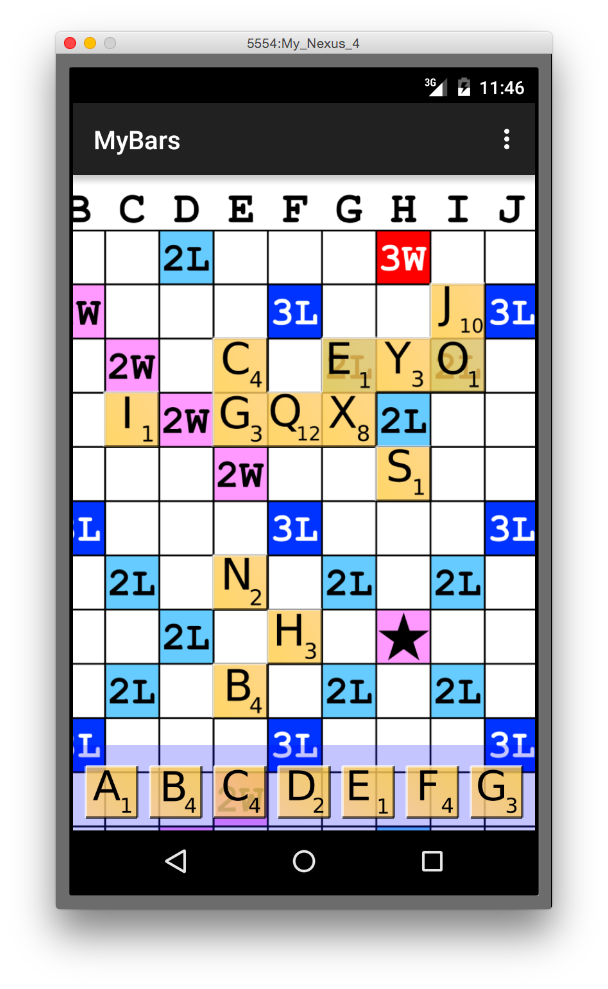
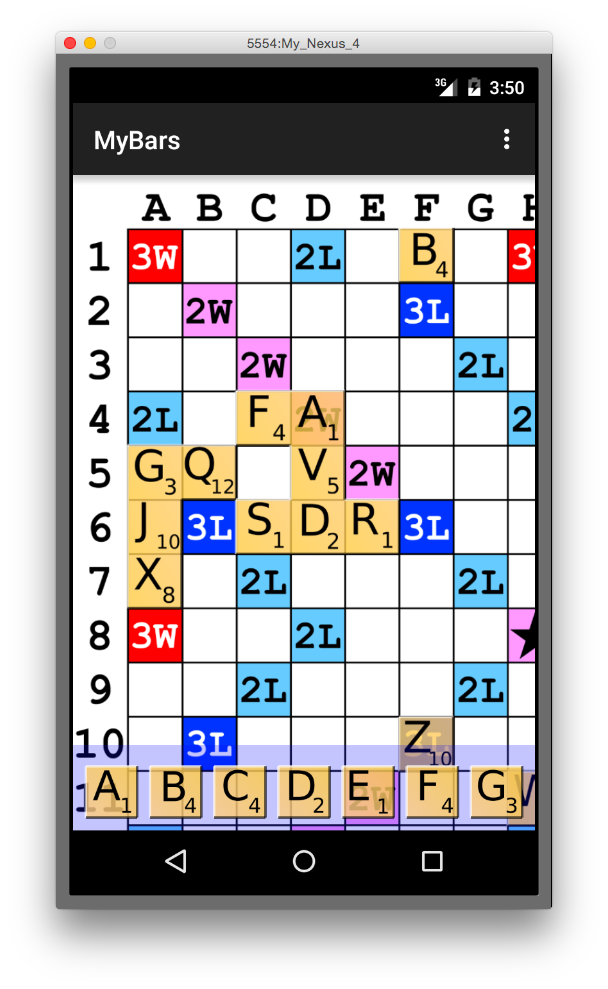
Get rid of corner, use drawLines for better performance

diff --git a/MyBars/src/de/afarber/mybars/SmallTile.java b/MyBars/src/de/afarber/mybars/SmallTile.java
@@ -6,14 +6,12 @@ import android.content.Context;
 import android.graphics.Canvas;
 import android.graphics.Color;
 import android.graphics.Paint;
-import android.graphics.Path;
 import android.graphics.drawable.Drawable;
 import android.util.Log;
 
 public class SmallTile {
 	private static final int ALPHA = 0x99;
 	private static final String PREFIX = "small_";
-	private static final int CORNER = 8;
 
 	private static final int NORTH = 0;
 	private static final int EAST = 1;
@@ -35,14 +33,14 @@ public class SmallTile {
 	public boolean visible = true;
 	
     private float mScale;
-    private int mCorner;
     
     private Paint mPaintLight;
     private Paint mPaintDark;
 
-    private Path mFillPath;
-    private Path mLightPath;
-    private Path mDarkPath;
+    private float[] mNorthLine;
+    private float[] mEastLine;
+    private float[] mSouthLine;
+    private float[] mWestLine;
 
 	private char mLetter;
 	private int mValue;
@@ -66,7 +64,6 @@ public class SmallTile {
 	    }
 	    
         mScale = context.getResources().getDisplayMetrics().density;
-		mCorner = Math.max(width, height) / CORNER;
       
 		mPaintLight = new Paint(Paint.ANTI_ALIAS_FLAG | Paint.FILTER_BITMAP_FLAG);
 		mPaintLight.setStyle(Paint.Style.STROKE);
@@ -80,25 +77,25 @@ public class SmallTile {
 		mPaintDark.setColor(Color.BLACK);
 		mPaintDark.setAlpha(ALPHA);
 		
-		final int corner = Math.max(width, height) / 6;
+		mNorthLine = new float[]{
+				0, 0, 
+				width, 0
+		};
 		
-		mFillPath = new Path();
-		mFillPath.lineTo(width - corner, 0);
-		mFillPath.lineTo(width, corner);
-		mFillPath.lineTo(width, height);
-		mFillPath.lineTo(0, height);
-		mFillPath.close();
+		mEastLine = new float[]{
+				width, 0,
+				width, height
+		};
 		
-		mLightPath = new Path();
-		mLightPath.moveTo(0, height);
-		mLightPath.lineTo(0, 0);
-		mLightPath.lineTo(width - corner, 0);
-		mLightPath.lineTo(width, corner);
+		mSouthLine = new float[]{
+				0, height, 
+				width, height 
+		};
 		
-		mDarkPath = new Path();
-		mDarkPath.moveTo(0, height);
-		mDarkPath.lineTo(width, height);
-		mDarkPath.lineTo(width, corner);
+		mWestLine = new float[]{
+				0, 0, 
+				0, height 
+		};
 	}
 
     public void setDrawSides(boolean[] sides) {
@@ -111,28 +108,20 @@ public class SmallTile {
 		
 		canvas.save();
 		canvas.translate(left, top);
-        
-		if (mDrawSides[NORTH] && mDrawSides[EAST]) {
-	        canvas.drawPath(mFillPath, paint);
-	        
-			canvas.drawLine(0, 0, width - mCorner, 0, mPaintLight);
-			canvas.drawLine(width - mCorner, 0, width, mCorner, mPaintLight);
-			canvas.drawLine(width, mCorner, width, height, mPaintDark);
-		} else {
-			canvas.drawRect(0, 0, width, height, paint);
-			
-			if (mDrawSides[NORTH])
-				canvas.drawLine(0, 0, width, 0, mPaintLight);
-			
-			if (mDrawSides[EAST])
-				canvas.drawLine(width, 0, width, height, mPaintDark);
-		}
+
+        canvas.drawRect(0, 0, width, height, paint);
+
+		if (mDrawSides[NORTH])
+			canvas.drawLines(mNorthLine, mPaintLight);
+		
+		if (mDrawSides[EAST])
+			canvas.drawLines(mEastLine, mPaintDark);
 		
 		if (mDrawSides[WEST])
-			canvas.drawLine(0, 0, 0, height, mPaintLight);
+			canvas.drawLines(mWestLine, mPaintLight);
         
 		if (mDrawSides[SOUTH])
-			canvas.drawLine(0, height, width, height, mPaintDark);
+			canvas.drawLines(mSouthLine, mPaintDark);
 		
 		Drawable d = sLetters.get(mLetter);
 

diff --git a/MyBars/src/de/afarber/mybars/BigTile.java b/MyBars/src/de/afarber/mybars/BigTile.java
@@ -6,14 +6,12 @@ import android.content.Context;
 import android.graphics.Canvas;
 import android.graphics.Color;
 import android.graphics.Paint;
-import android.graphics.Path;
 import android.graphics.drawable.Drawable;
 import android.util.Log;
 
 public class BigTile {
 	private static final int ALPHA = 0xCC;
 	private static final int COLOR = 0xFFFFCC00;
-	private static final int CORNER = 8;
 	private static final String PREFIX = "big_";
 	private static final char[] LETTERS = {'A', 'B', 'C', 'D', 'E', 'F', 'G', 'H', 'I', 'J', 'K', 'L', 'M', 'N', 'O', 'P', 'Q', 'R', 'S', 'T', 'U', 'V', 'W', 'X', 'Y', 'Z'};
 	private static final int[] VALUES =   { 1,   4,   4,   2,   1,   4,   3,   3,   1,  10,   5,   2,   4,   2,   1,   4,  12,   1,   1,   1,   2,   5,   4,   8,   3,  10 };
@@ -29,15 +27,13 @@ public class BigTile {
 	public boolean visible = true;
 	
     private float mScale;
-    private int mCorner;
     
     private Paint mPaint;
     private Paint mPaintLight;
     private Paint mPaintDark;
     
-    private Path mFillPath;
-    private Path mLightPath;
-    private Path mDarkPath;
+    private float[] mLightLines;
+    private float[] mDarkLines;
 
 	private char mLetter;
 	private int mValue;
@@ -78,25 +74,21 @@ public class BigTile {
 		mPaintDark.setColor(Color.BLACK);
 		mPaintDark.setAlpha(0x66);
 		
-		mCorner = Math.max(width, height) / CORNER;
+		mLightLines = new float[]{
+				0, height, 
+				0, 0, 
 				
-		mFillPath = new Path();
-		mFillPath.lineTo(width - mCorner, 0);
-		mFillPath.lineTo(width, mCorner);
-		mFillPath.lineTo(width, height);
-		mFillPath.lineTo(0, height);
-		mFillPath.close();
+				0, 0, 
+				width, 0
+		};
 		
-		mLightPath = new Path();
-		mLightPath.moveTo(0, height);
-		mLightPath.lineTo(0, 0);
-		mLightPath.lineTo(width - mCorner, 0);
-		mLightPath.lineTo(width, mCorner);
-		
-		mDarkPath = new Path();
-		mDarkPath.moveTo(0, height);
-		mDarkPath.lineTo(width, height);
-		mDarkPath.lineTo(width, mCorner);
+		mDarkLines = new float[]{
+				mPaintDark.getStrokeWidth(), height, 
+				width, height, 
+				
+				width, height, 
+				width, mPaintDark.getStrokeWidth()
+		};
 	}
     
 	public void draw(Canvas canvas) {
@@ -106,9 +98,9 @@ public class BigTile {
 		canvas.save();
 		canvas.translate(left, top);
 		
-        canvas.drawPath(mFillPath, mPaint);
-        canvas.drawPath(mLightPath, mPaintLight);
-        canvas.drawPath(mDarkPath, mPaintDark);
+        canvas.drawRect(0, 0, width, height, mPaint);
+        canvas.drawLines(mLightLines, mPaintLight);
+        canvas.drawLines(mDarkLines, mPaintDark);
 
 		Drawable d = sLetters.get(mLetter);
 		d.draw(canvas);
